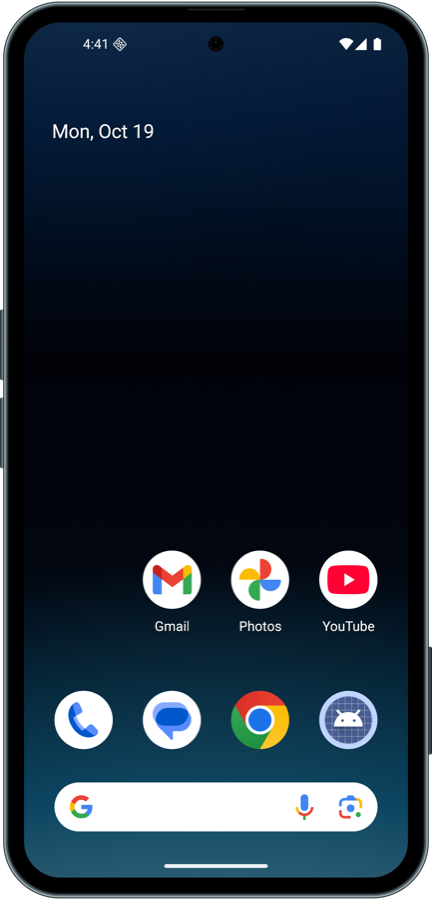
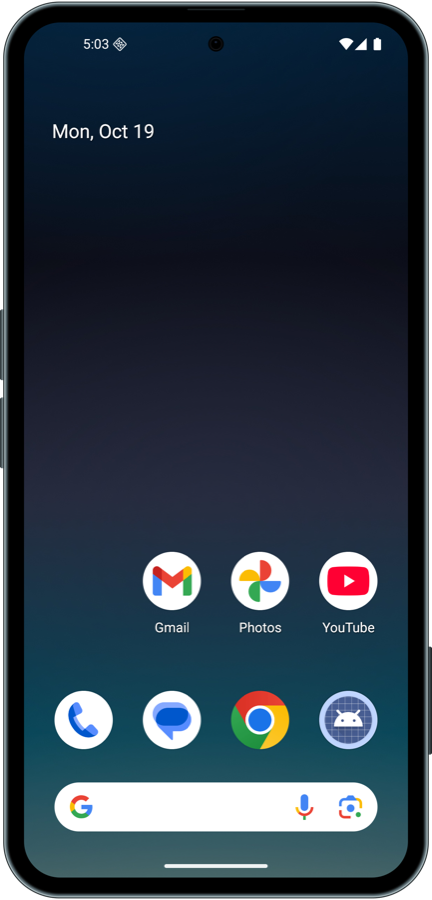
Theme colors: calibrated wallpaper, system colors from the wallpaper
The review photo has a blue-purple cast (its white is #C0B4E3). Corrected values
give a navy -> near-black -> slate-navy -> teal-navy -> gray-teal wallpaper.
System colors now come from the wallpaper (Material You color_source
home_wallpaper), like stock Android 16 on Seeker, instead of a forced lavender.
Docs 11, D23, log.

diff --git a/profiles/seeker/skin/make-wallpaper.swift b/profiles/seeker/skin/make-wallpaper.swift
@@ -17,11 +17,12 @@ func color(_ hex: UInt32, _ a: CGFloat = 1) -> CGColor {
             blue: CGFloat(hex & 0xff) / 255, alpha: a)
 }
 
-// Vertical base (CG origin is bottom-left): teal-blue bottom -> black middle -> navy top.
-// Measured: top #0F263E / #001633, middle ~#00000F, bottom #003854 -> #345E72.
+// Vertical base (CG origin is bottom-left). Values from a real Seeker home-screen photo, color-corrected
+// against the photo's white point (#C0B4E3 -> white): top #01223C navy, upper-middle near black,
+// middle #252A3C slate-navy, lower #044558 deep teal-navy, bottom #546D68 gray-teal.
 let base = CGGradient(colorsSpace: space,
-                      colors: [color(0x2E5668), color(0x003854), color(0x02060F), color(0x010309), color(0x001633), color(0x0F263E)] as CFArray,
-                      locations: [0, 0.12, 0.38, 0.6, 0.86, 1])!
+                      colors: [color(0x546D68), color(0x2F5560), color(0x044558), color(0x252A3C), color(0x0B0D17), color(0x01223C)] as CFArray,
+                      locations: [0, 0.08, 0.2, 0.45, 0.7, 1])!
 ctx.drawLinearGradient(base, start: CGPoint(x: 0, y: 0), end: CGPoint(x: 0, y: h), options: [])
 
 // Soft glows to give depth (no hard shapes).
@@ -30,9 +31,9 @@ func glow(_ x: Double, _ y: Double, _ r: Double, _ hex: UInt32, _ a: CGFloat) {
     let c = CGPoint(x: x, y: y)
     ctx.drawRadialGradient(g, startCenter: c, startRadius: 0, endCenter: c, endRadius: r, options: [])
 }
-glow(600, -200, 1250, 0x3F7F98, 0.45)   // teal-blue glow rising from the bottom
-glow(250, 2700, 900, 0x163A5E, 0.35)    // navy haze, top left
-glow(1050, 2500, 700, 0x0C2440, 0.30)   // navy haze, top right
+glow(600, -250, 1100, 0x5E7A74, 0.35)   // gray-teal light rising from the bottom
+glow(600, 1200, 900, 0x2C3048, 0.30)    // slate-navy haze in the middle
+glow(300, 2750, 900, 0x0A2C4A, 0.40)    // navy haze, top
 
 // Subtle grain so the gradient doesn't band.
 var rng = SystemRandomNumberGenerator()

diff --git a/crates/sms-core/src/theme.rs b/crates/sms-core/src/theme.rs
@@ -15,9 +15,8 @@ const SKIN_FILES: &[(&str, &[u8])] = &[
     ("mask.png", include_bytes!("../../../profiles/seeker/skin/mask.png")),
 ];
 
-/// Material You seed color: the lavender of a real Seeker's system UI (measured from review photos:
-/// status bar #BDB0FF, surfaces ~#7973C2). Seeker ships in light mode.
-pub const PALETTE_HEX: &str = "7B6EC6";
+/// Marker we store with the theme settings so `doctor` can tell the Seeker theme is applied.
+pub const THEME_MARKER: &str = "home_wallpaper";
 
 pub fn skin_dir(sms: &SmsPaths) -> PathBuf {
     sms.home.join("skins/seeker")
@@ -34,13 +33,12 @@ pub fn install_skin(sms: &SmsPaths, avd: &str) -> Result<()> {
     emulator::set_avd_config(avd, &[("skin.name", "seeker"), ("skin.path", &path), ("skin.dynamic", "no"), ("showDeviceFrame", "yes")])
 }
 
-/// Light mode + lavender palette + wallpaper, like a real Seeker (wallpaper needs the SMS Test Wallet app).
+/// Light mode + Seeker wallpaper, with system colors derived *from the wallpaper* (Material You), the way
+/// a stock Android 16 phone like the Seeker does it. The wallpaper needs the SMS Test Wallet app.
 pub fn apply_device_theme(adb: &Adb) -> Result<bool> {
     adb.shell("cmd uimode night no")?;
     let overlay = format!(
-        "{{\"android.theme.customization.system_palette\":\"{PALETTE_HEX}\",\
-          \"android.theme.customization.accent_color\":\"{PALETTE_HEX}\",\
-          \"android.theme.customization.color_source\":\"preset\",\
+        "{{\"android.theme.customization.color_source\":\"{THEME_MARKER}\",\
           \"android.theme.customization.theme_style\":\"TONAL_SPOT\"}}"
     );
     adb.shell(&format!("settings put secure theme_customization_overlay_packages '{overlay}'"))?;
@@ -54,6 +52,6 @@ pub fn apply_device_theme(adb: &Adb) -> Result<bool> {
 
 pub fn is_themed(adb: &Adb) -> bool {
     adb.shell("settings get secure theme_customization_overlay_packages")
-        .map(|v| v.contains(PALETTE_HEX))
+        .map(|v| v.contains(THEME_MARKER))
         .unwrap_or(false)
 }

diff --git a/crates/sms-core/src/doctor.rs b/crates/sms-core/src/doctor.rs
@@ -150,7 +150,7 @@ pub fn run(sms: &SmsPaths, avd: &str) -> Vec<Check> {
                 Check::warn("Display", "no cutout/corner overlay (status bar not aligned)", "Run `sms setup`")
             });
             checks.push(if theme::is_themed(&adb) {
-                Check::ok("Theme", "Seeker style (light, lavender, navy wallpaper)")
+                Check::ok("Theme", "Seeker style (light, colors from the Seeker wallpaper)")
             } else {
                 Check::warn("Theme", "stock Android look", "Run `sms setup`")
             });

diff --git a/crates/sms-core/src/setup.rs b/crates/sms-core/src/setup.rs
@@ -221,7 +221,7 @@ pub fn run(sms: &SmsPaths, opts: &SetupOptions, log: &mut dyn FnMut(&str)) -> Re
         }
     }
 
-    log("Applying the Seeker theme (light mode, lavender colors, navy wallpaper)");
+    log("Applying the Seeker theme (light mode, Seeker wallpaper, colors from the wallpaper)");
     if !theme::apply_device_theme(&adb)? {
         log("  wallpaper skipped (needs the SMS Test Wallet app)");
     }

diff --git a/docs/11-seeker-look.md b/docs/11-seeker-look.md
@@ -74,18 +74,20 @@ Measured from hands-on photos of a real Seeker (Decrypt review):
 | Real Seeker | Measured | Virtual Seeker |
 |---|---|---|
 | Light mode (light search bar, light system screens) | — | `cmd uimode night no` |
-| Lavender system UI (Seed Vault Wallet: status bar `#BDB0FF`, surfaces ~`#7973C2`) | review photo | Material You seed `#7B6EC6`, TONAL_SPOT, via `theme_customization_overlay_packages` |
-| Home wallpaper: navy top (`#0F263E`, `#001633`), near-black middle, blue-teal bottom (`#003854` → `#345E72`) | review photo | our own gradient in those colors (`make-wallpaper.swift`) |
+| System colors generated from the wallpaper (Material You, stock Android 16) | — | `color_source: home_wallpaper`, TONAL_SPOT (the first try forced lavender `#7B6EC6`, which came from the Seed Vault Wallet app's own colors) |
+| Home wallpaper, **color-corrected** against the photo's white point (`#C0B4E3` → white): top `#01223C` navy, near-black band behind the clock, middle `#252A3C` slate-navy, lower `#044558` deep teal-navy, bottom `#546D68` gray-teal | review photo | our own gradient in those colors (`make-wallpaper.swift`) |
 | Back panel: blue-gray slate | review photo | matches the frame's cool slate tint |
 
 Applied by `sms setup` ([theme.rs](../crates/sms-core/src/theme.rs)):
 | What | How |
 |---|---|
 | Light mode | `cmd uimode night no` |
-| System colors (Material You) seeded with lavender `#7B6EC6` | `settings put secure theme_customization_overlay_packages '{"android.theme.customization.system_palette":"7B6EC6", …}'` |
+| System colors from the wallpaper | `settings put secure theme_customization_overlay_packages '{"android.theme.customization.color_source":"home_wallpaper","android.theme.customization.theme_style":"TONAL_SPOT"}'` |
 | Wallpaper (home + lock) | Android has no shell command for it, so the SMS Test Wallet app has a `ThemeActivity` that sets the bundled wallpaper: `am start -W -n dev.sms.wallet/.ThemeActivity` |
 
-`sms doctor` shows `✓ Theme  Seeker style (light, lavender, navy wallpaper)` and `✓ Virtual Seeker … Seeker skin`.
+`sms doctor` shows `✓ Theme  Seeker style (light, colors from the Seeker wallpaper)`
+
+Still unknown: the exact stock Seeker wallpaper. No official download exists, and the only home-screen reference is one outdoor photo. A screenshot from a real Seeker would pin it exactly. and `✓ Virtual Seeker … Seeker skin`.
 
 ## Not done yet
 - Home screen layout: a real Seeker shows dApp Store + Wallet on the home screen. Ours still has the stock Google layout (Gmail, Photos, YouTube).

diff --git a/docs/log.md b/docs/log.md
@@ -37,3 +37,4 @@
 - **Fixed "square corners / status bar looks off"** (user report): the display rectangle was painted over the rounded metal corners. Mask now repaints the body, glass is pure black with underlap, corner radius 9.7 mm so frame and display layers only meet black-on-black (D20). Colors re-sampled from official renders (cool slate metal). Verified live in white and dark apps.
 - **Status bar fixed** (user report: too close to the edge / too high): Seeker display overlay with the camera-hole cutout, rounded corners, and status bar height centered on the camera. Clock/icon margins tuned by measurement to ~82 px each side (D21). Added to `sms setup` + `doctor`.
 - **Theme matched to a real Seeker** from review photos: light mode, lavender system colors (`#7B6EC6` seed), navy/black/teal wallpaper (D22).
+- **Colors refined** (user: "not there yet"): wallpaper redrawn with photo values corrected for the camera's color cast (slate-navy middle, gray-teal bottom). System colors now derived from the wallpaper (Material You) instead of a forced lavender (D23).

diff --git a/docs/decisions.md b/docs/decisions.md
@@ -92,3 +92,7 @@ Newest at the bottom. Each entry says what was decided, and why.
 ### D22 (2026-10-19): Theme follows the real Seeker: light mode, lavender, navy/teal wallpaper
 - **Decided:** replace the first guess (dark + Solana purple/green) with values measured from real-device photos: light mode, Material You seed `#7B6EC6`, and a navy → black → blue-teal wallpaper (our own art in those colors).
 - **Why:** the goal is that the virtual Seeker looks like a real one. The first theme was a "Solana brand" guess, not the device's actual look.
+
+### D23 (2026-10-19): System colors derived from the wallpaper; wallpaper colors calibrated
+- **Decided:** stop forcing a palette. Use Material You `color_source: home_wallpaper` like stock Android, and redraw the wallpaper from the review photo after correcting the camera's color cast (the photo's white was `#C0B4E3`).
+- **Why:** the user said the colors still weren't right. The lavender came from the Seed Vault Wallet app's own UI, not the system. The uncorrected photo values were too purple/teal.
